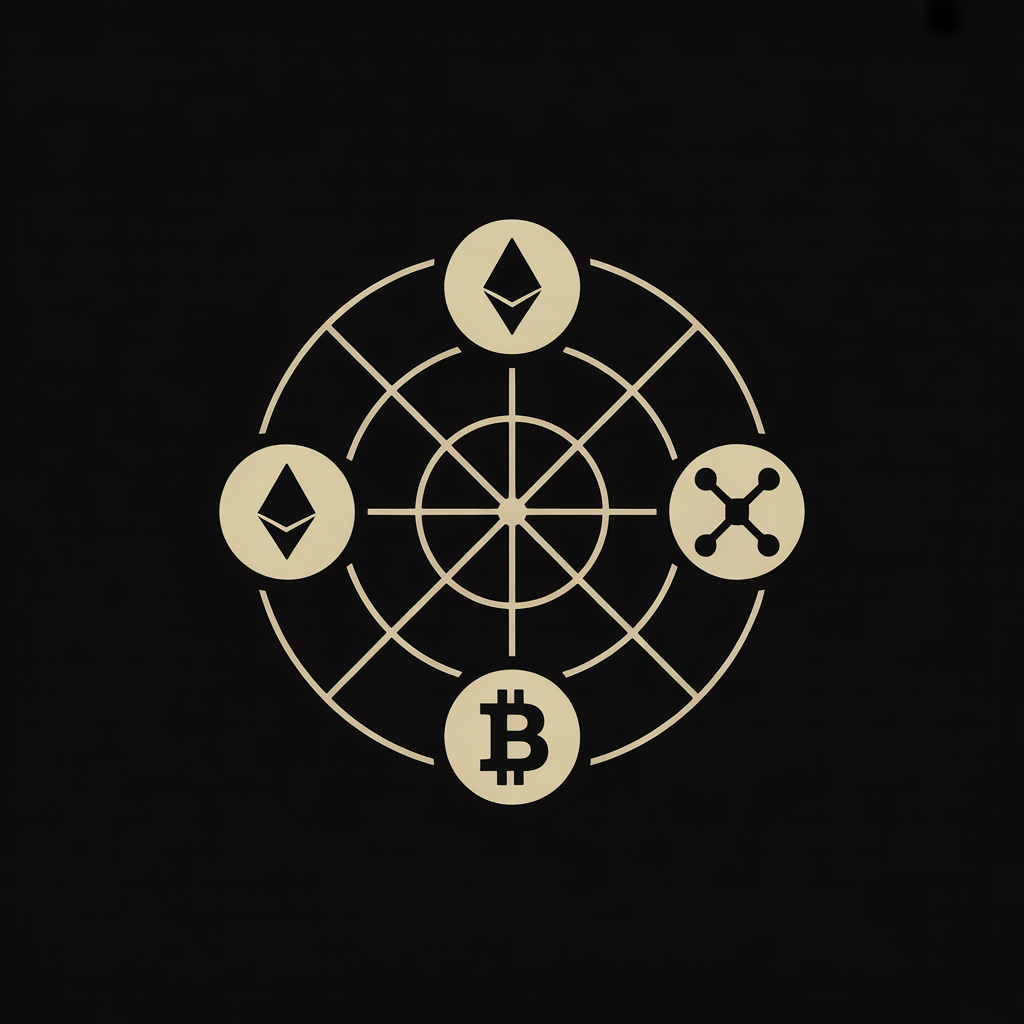
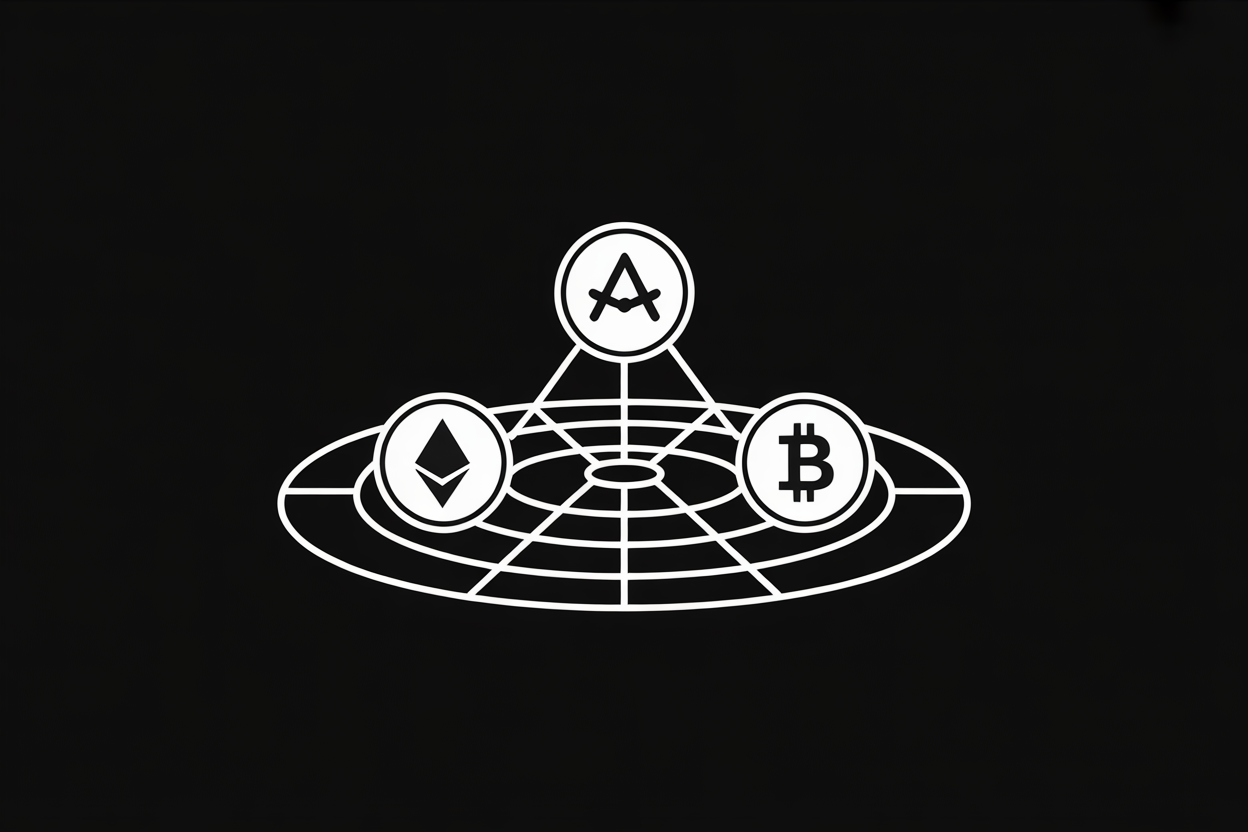
new pics

Changed region(s): [[0.2188, 0.2188, 0.7812, 0.7812], [0.625, 0.2812, 0.7188, 0.375], [0.2812, 0.2812, 0.375, 0.375]]

diff --git a/frontend/app/components/AtomHero3DBlack.tsx b/frontend/app/components/AtomHero3DBlack.tsx
@@ -1,0 +1,120 @@
+// ================================================
+// FILE: frontend/app/components/AtomHero3DBlack.tsx
+// Cinematic hero: black palette, radial grid, fox image plane, pulsing eye beacons, bloom, parallax
+// ================================================
+'use client'
+
+import { Canvas, useFrame, useThree } from '@react-three/fiber'
+import { Environment, OrbitControls, useTexture } from '@react-three/drei'
+import { EffectComposer, Bloom } from '@react-three/postprocessing'
+import * as THREE from 'three'
+import { useEffect, useMemo, useRef, useState } from 'react'
+import WarpedGridPlane from './WarpedGrid'
+
+function useMouseParallax(strength=0.3){
+  const { camera, size } = useThree()
+  const target = useRef(new THREE.Vector3())
+  useEffect(() => {
+    const onMove = (e: MouseEvent) => {
+      const x=(e.clientX/size.width-0.5)*strength
+      const y=(e.clientY/size.height-0.5)*strength
+      target.current.set(x,-y,camera.position.z)
+    }
+    window.addEventListener('mousemove', onMove)
+    return () => window.removeEventListener('mousemove', onMove)
+  }, [size, strength, camera.position.z])
+  useFrame(()=>{
+    camera.position.x = THREE.MathUtils.lerp(camera.position.x, target.current.x, 0.06)
+    camera.position.y = THREE.MathUtils.lerp(camera.position.y, target.current.y, 0.06)
+    camera.lookAt(0,0,0)
+  })
+}
+
+function useScrollDolly(baseZ=4.2, range=0.8){
+  const { camera } = useThree()
+  const [s, setS] = useState(0)
+  useEffect(()=>{
+    const onScroll=()=>setS(window.scrollY)
+    window.addEventListener('scroll', onScroll, { passive: true })
+    return ()=>window.removeEventListener('scroll', onScroll)
+  },[])
+  useFrame(()=>{
+    const t=Math.min(s/380,1)
+    camera.position.z = THREE.MathUtils.lerp(baseZ, baseZ-range, t)
+  })
+}
+
+function FoxImagePlane({ src='/33f.png' }:{src?:string}){
+  const tex = useTexture(src)
+  const mat = useMemo(()=> new THREE.MeshBasicMaterial({ map: tex, transparent: true, depthWrite:false, color: 0xffffff }),[tex])
+  const mesh = useRef<THREE.Mesh>(null!)
+  useFrame((_, t)=>{
+    if(!mesh.current) return
+    mesh.current.rotation.y = Math.sin(t*0.32)*0.12
+    mesh.current.position.y = Math.sin(t*0.85)*0.05
+  })
+  return (
+    <mesh ref={mesh} position={[0,0,0.22]} renderOrder={3}>
+      <planeGeometry args={[2.1,2.1,1,1]} />
+      {/* @ts-ignore */}
+      <primitive object={mat} attach="material" />
+    </mesh>
+  )
+}
+
+// Radial gradient glow planes for eyes, additive + bloom
+function EyeBeacon({ position=[0,0,0.24] as [number,number,number], radius=0.18 }){
+  const mat = useMemo(()=>{
+    const uniforms = { uR: { value: radius } }
+    const vs = /* glsl */`varying vec2 vUv; void main(){ vUv=uv; gl_Position=projectionMatrix*modelViewMatrix*vec4(position,1.0); }`
+    const fs = /* glsl */`
+      varying vec2 vUv; uniform float uR;
+      void main(){ vec2 p=vUv*2.0-1.0; float d=length(p); float a=smoothstep(uR, uR*0.2, d); float core=smoothstep(0.25,0.0,d); vec3 col=vec3(1.0)*(0.6*core+0.6*(1.0-a)); gl_FragColor=vec4(col,1.0-a); }
+    `
+    return new THREE.ShaderMaterial({ vertexShader: vs, fragmentShader: fs, transparent:true, blending: THREE.AdditiveBlending, depthWrite:false })
+  },[radius])
+  const mesh = useRef<THREE.Mesh>(null!)
+  useFrame((_, t)=>{ if(mesh.current){ const s=1.0+Math.sin(t*2.2)*0.08; mesh.current.scale.setScalar(s) } })
+  return (
+    <mesh ref={mesh} position={position} renderOrder={4}>
+      <planeGeometry args={[0.55,0.55]} />
+      {/* @ts-ignore */}
+      <primitive object={mat} attach="material" />
+    </mesh>
+  )
+}
+
+function ParallaxAndScroll(){ useMouseParallax(0.28); useScrollDolly(4.2,0.8); return null }
+
+export default function AtomHero3DBlack(){
+  return (
+    <section className="relative h-[92vh] w-full bg-black">
+      <Canvas camera={{ position:[0,0.32,4.2], fov:40 }} gl={{ antialias:true, powerPreference:'high-performance' }}>
+        <color attach="background" args={["#000"]} />
+        <ambientLight intensity={0.35} />
+        <directionalLight position={[3,4,2]} intensity={0.9} />
+        <Environment preset="city" />
+        <WarpedGridPlane />
+        <FoxImagePlane src="/33f.png" />
+        <EyeBeacon position={[-0.42,0.15,0.26]} radius={0.22} />
+        <EyeBeacon position={[ 0.42,0.15,0.26]} radius={0.22} />
+        <OrbitControls enableZoom={false} enablePan={false} autoRotate autoRotateSpeed={0.18} />
+        <EffectComposer>
+          <Bloom luminanceThreshold={0.15} luminanceSmoothing={0.85} intensity={1.1} />
+        </EffectComposer>
+        <ParallaxAndScroll />
+      </Canvas>
+
+      <div className="pointer-events-none absolute inset-0 flex flex-col items-center justify-center text-center">
+        <h1 className="text-4xl md:text-6xl font-extrabold tracking-tight text-white">The Arbitrage Trustless On-Chain Module</h1>
+        <p className="mt-4 max-w-2xl text-white/60 md:text-xl">Powered by the Advanced Efficient Optimized Network</p>
+      </div>
+
+      <div className="pointer-events-auto absolute bottom-8 left-1/2 -translate-x-1/2">
+        <a href="/sign-in" className="px-8 py-3 rounded-2xl font-bold text-black bg-white hover:opacity-90 transition">Log In with Clerk</a>
+      </div>
+
+      <div className="absolute inset-0 bg-[radial-gradient(ellipse_at_center,transparent_0%,transparent_60%,#000_100%)] pointer-events-none" />
+    </section>
+  )
+}

diff --git a/frontend/app/components/WarpedGrid.tsx b/frontend/app/components/WarpedGrid.tsx
@@ -1,101 +1,75 @@
-// frontend/app/components/WarpedGrid.tsx
-'use client';
+// ================================================
+// FILE: frontend/app/components/WarpedGrid.tsx
+// Black, radial wave grid (center-out), subtle wireframe lines
+// ================================================
+'use client'
 
-import { useMemo, useRef } from 'react';
-import { useFrame } from '@react-three/fiber';
-import * as THREE from 'three';
+import { useMemo, useRef } from 'react'
+import { useFrame } from '@react-three/fiber'
+import * as THREE from 'three'
 
 export function RadialWaveGridMaterial() {
-  const mat = useRef<THREE.ShaderMaterial>(null!);
-  useFrame((_, t) => { if (mat.current) mat.current.uniforms.uTime.value = t; });
+  const mat = useRef<THREE.ShaderMaterial>(null!)
+  useFrame((_, t) => { if (mat.current) mat.current.uniforms.uTime.value = t })
 
   const uniforms = useMemo(() => ({
     uTime: { value: 0 },
-    uSpeed: { value: 1.6 },      // wave travel speed
-    uWaveAmp: { value: 0.35 },   // vertical displacement strength
-    uFreq: { value: 12.0 },      // rings count
-    uLineDensity: { value: 22.0 },
-    uTilt: { value: 0.95 },      // camera-ish tilt compensation for the grid
-    uColorA: { value: new THREE.Color('#0a0a12') },
-    uColorB: { value: new THREE.Color('#1a1c37') },
-    uLineColor: { value: new THREE.Color('#ff7ee7') },
-    uGlowColor: { value: new THREE.Color('#ffd166') }
-  }), []);
+    uSpeed: { value: 1.35 },   // wave travel speed
+    uWaveAmp: { value: 0.42 }, // vertical displacement strength
+    uFreq: { value: 14.0 },    // ring count
+    uTilt: { value: 0.9 },     // perspective squish
+    uLineDensity: { value: 26.0 },
+    uBaseA: { value: new THREE.Color('#000000') },
+    uBaseB: { value: new THREE.Color('#07070a') },
+    uLineColor: { value: new THREE.Color('#2a2a2f') }, // dim graphite lines
+    uSparkColor: { value: new THREE.Color('#ffffff') }, // micro highlights
+  }), [])
 
-  // Vertex: radial traveling waves from the center (outward + inward interference)
   const vertex = /* glsl */`
     varying vec2 vUv;
     varying float vWave;
     uniform float uTime, uSpeed, uWaveAmp, uFreq, uTilt;
-
     void main(){
       vUv = uv;
-
-      // center UV at (0,0), slight non-uniform scale to fake perspective
       vec2 g = (uv - 0.5) * vec2(1.0, uTilt);
-
-      float r = length(g);                         // radius from center
+      float r = length(g);
       float t = uTime * uSpeed;
-
-      // two traveling waves (outward & inward) to get that "breathe" feel
       float w1 = sin(r * uFreq - t);
-      float w2 = sin(r * (uFreq * 1.35) + t * 0.85);
-      float wave = (w1 + 0.65 * w2) * (1.0 - smoothstep(0.55, 1.05, r));
-
-      // fade amplitude a bit with radius
-      float falloff = 1.0 / (1.0 + r * 2.0);
-      wave *= falloff;
-
-      vWave = wave;
-
-      vec3 pos = position;
-      pos.z += wave * uWaveAmp;                    // displace the mesh
-      gl_Position = projectionMatrix * modelViewMatrix * vec4(pos, 1.0);
+      float w2 = sin(r * (uFreq*1.27) + t*0.8);
+      float wave = (w1 + 0.7*w2) * (1.0 - smoothstep(0.55, 1.05, r));
+      float falloff = 1.0/(1.0 + r*2.2);
+      vWave = wave * falloff;
+      vec3 pos = position; pos.z += vWave * uWaveAmp;
+      gl_Position = projectionMatrix * modelViewMatrix * vec4(pos,1.0);
     }
-  `;
+  `
 
-  // Fragment: curved grid lines + glow modulated by the wave height
   const fragment = /* glsl */`
-    varying vec2 vUv;
-    varying float vWave;
-    uniform float uLineDensity;
-    uniform vec3 uColorA, uColorB, uLineColor, uGlowColor;
-
-    float gridLine(float x){
-      float d = abs(fract(x) - 0.5);
-      return smoothstep(0.495, 0.5, 0.5 - d);
-    }
-
+    varying vec2 vUv; varying float vWave;
+    uniform float uLineDensity; uniform vec3 uBaseA,uBaseB,uLineColor,uSparkColor;
+    float gridLine(float x){ float d=abs(fract(x)-0.5); return smoothstep(0.495,0.5,0.5-d); }
     void main(){
-      // UV scaling for nicer spacing
-      vec2 st = vUv * vec2(1.7, 1.1);
-
-      // draw the grid
+      vec2 st = vUv * vec2(1.7,1.05);
       float gx = gridLine(st.x * uLineDensity);
-      float gy = gridLine(st.y * (uLineDensity * 0.8));
-      float grid = clamp(gx + gy, 0.0, 1.0);
-
-      // base gradient
-      vec3 base = mix(uColorA, uColorB, vUv.y);
-
-      // pulse/glow with the wave height
-      float glow = smoothstep(0.0, 0.9, abs(vWave)) * 0.7;
-      vec3 color = base + grid * (uLineColor * 0.85 + uGlowColor * glow * 0.75);
-
+      float gy = gridLine(st.y * (uLineDensity*0.85));
+      float grid = clamp(gx+gy, 0.0, 1.0);
+      vec3 base = mix(uBaseA, uBaseB, vUv.y);
+      float sparkle = smoothstep(0.0, 0.9, abs(vWave)) * 0.25; // subtle glow on peaks
+      vec3 color = base + grid * (uLineColor + uSparkColor * sparkle*0.6);
       gl_FragColor = vec4(color, 1.0);
     }
-  `;
+  `
 
   // @ts-ignore
-  return <shaderMaterial ref={mat} uniforms={uniforms} vertexShader={vertex} fragmentShader={fragment} />;
+  return <shaderMaterial ref={mat} uniforms={uniforms} vertexShader={vertex} fragmentShader={fragment} />
 }
 
 export default function WarpedGridPlane() {
   return (
     <mesh rotation={[-Math.PI/3.1, 0, 0]} position={[0, -1.25, -1.8]}>
-      <planeGeometry args={[14, 9, 320, 220]} />
+      <planeGeometry args={[16, 10, 360, 260]} />
       <RadialWaveGridMaterial />
     </mesh>
-  );
+  )
 }
 

diff --git a/frontend/app/page.tsx b/frontend/app/page.tsx
@@ -1,91 +1,12 @@
-"use client";
+'use client'
 
-import { motion } from "framer-motion";
-import { Button } from "@/components/ui/button";
-import { ArrowRight, Zap, Shield, TrendingUp } from "lucide-react";
-import Link from "next/link";
-import { SignedIn, SignedOut, SignInButton, UserButton } from "@clerk/nextjs";
+import AtomHero3DBlack from './components/AtomHero3DBlack'
 
-import AtomHero3D from "./components/AtomHero3D";
-
-export default function Home() {
+export default function Page(){
   return (
-    <div className="min-h-screen bg-black text-white">
-      {/* Navigation */}
-      <nav className="flex justify-between items-center p-6 border-b border-gray-800">
-        <div className="text-2xl font-bold">ATOM</div>
-        <div className="flex items-center gap-4">
-          <SignedOut>
-            <SignInButton>
-              <Button variant="outline" className="text-white border-white hover:bg-white hover:text-black">
-                Sign In
-              </Button>
-            </SignInButton>
-          </SignedOut>
-          <SignedIn>
-            <Link href="/dashboard">
-              <Button className="bg-blue-600 hover:bg-blue-700">
-                Dashboard
-              </Button>
-            </Link>
-            <UserButton />
-          </SignedIn>
-        </div>
-      </nav>
-
-      {/* Hero Section (3D) */}
-      <div className="relative">
-        {/* 3D Cinematic Hero */}
-        <AtomHero3D />
-      </div>
-
-      {/* Existing Hero Content Below 3D */}
-      <main className="flex flex-col items-center justify-center min-h-[60vh] text-center px-6">
-        <motion.div
-          initial={{ opacity: 0, y: 20 }}
-          animate={{ opacity: 1, y: 0 }}
-          transition={{ duration: 0.8 }}
-          className="max-w-4xl"
-        >
-          <h1 className="text-6xl font-bold mb-6 bg-gradient-to-r from-blue-400 to-purple-600 bg-clip-text text-transparent">
-            ATOM
-          </h1>
-          <h2 className="text-3xl font-semibold mb-4">
-            Arbitrage Trustless On-Chain Module
-          </h2>
-          <p className="text-xl text-gray-300 mb-8 max-w-2xl mx-auto">
-            Zero-capital DeFi arbitrage with flash loans + AI agents.
-            Maximize yield through intelligent cross-DEX execution on Base L2. Dashboard Live!
-          </p>
-
-          <div className="flex flex-col sm:flex-row gap-4 justify-center mb-12">
-            <SignedOut>
-              <SignInButton>
-                <Button size="lg" className="bg-blue-600 hover:bg-blue-700 text-lg px-8 py-3">
-                  Get Started <ArrowRight className="ml-2 h-5 w-5" />
-                </Button>
-              </SignInButton>
-            </SignedOut>
-            <SignedIn>
-              <Link href="/dashboard">
-                <Button size="lg" className="bg-blue-600 hover:bg-blue-700 text-lg px-8 py-3">
-                  Open Dashboard <ArrowRight className="ml-2 h-5 w-5" />
-                </Button>
-              </Link>
-            </SignedIn>
-            <Button variant="outline" size="lg" className="text-white border-white hover:bg-white hover:text-black text-lg px-8 py-3">
-              Learn More
-            </Button>
-          </div>
-
-        </motion.div>
-      </main>
-
-      {/* AITECH-style sections */}
-      {(() => {
-        const AitechSections = require('./components/AitechSections').default;
-        return <AitechSections />;
-      })()}
-    </div>
-  );
+    <main className="bg-black min-h-screen">
+      <AtomHero3DBlack />
+      {/* existing sections below */}
+    </main>
+  )
 }

diff --git a/frontend/app/components/AitechSections.tsx b/frontend/app/components/AitechSections.tsx
@@ -31,7 +31,7 @@ function Card({
     >
       {img && (
         <div className="mb-4 overflow-hidden rounded-xl bg-black/40">
-          <img src={img} alt={title} className="h-40 w-full object-cover opacity-90 transition group-hover:opacity-100" />
+          <img src={img} alt={title} className="h-40 w-full object-contain opacity-90 transition group-hover:opacity-100" />
         </div>
       )}
       <h3 className="text-lg font-semibold text-white">{title}</h3>
